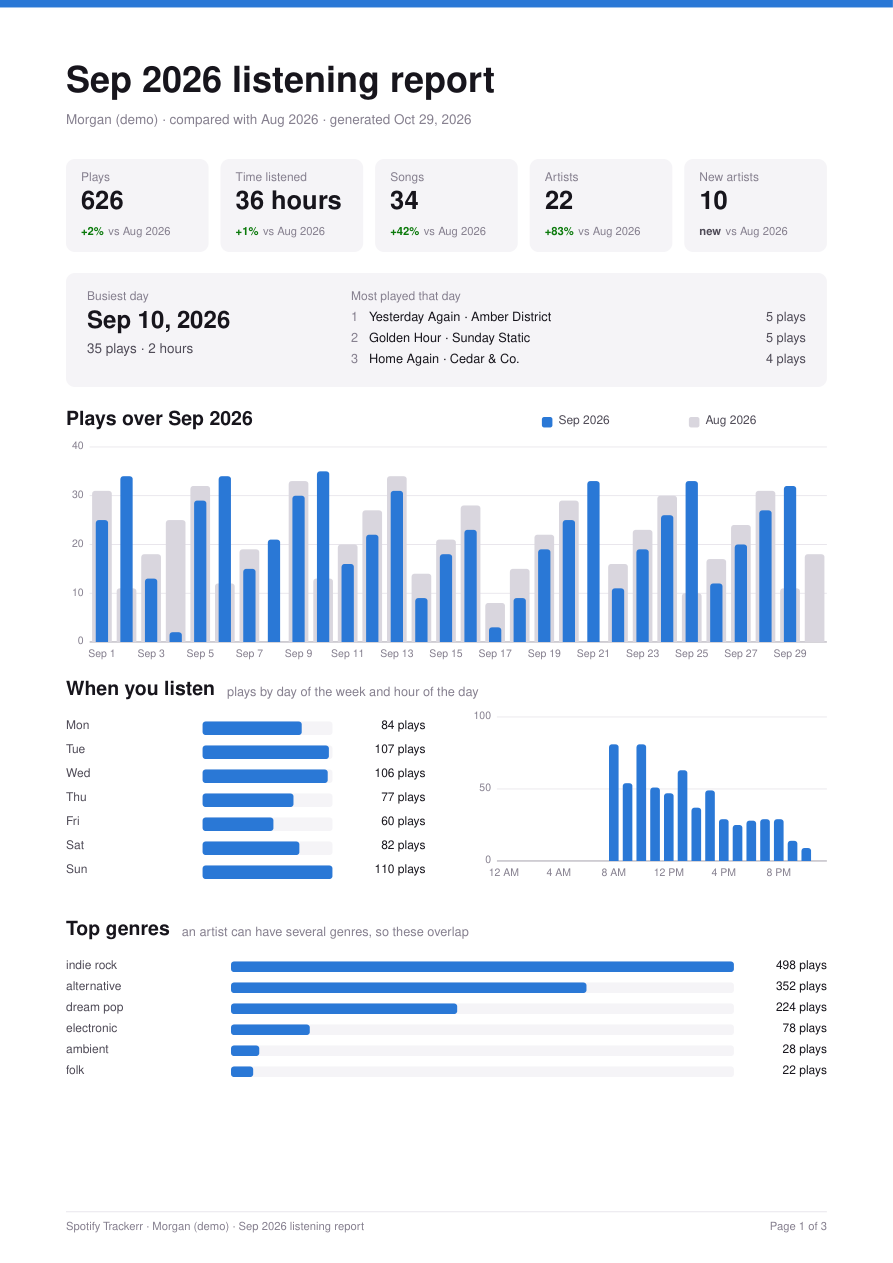
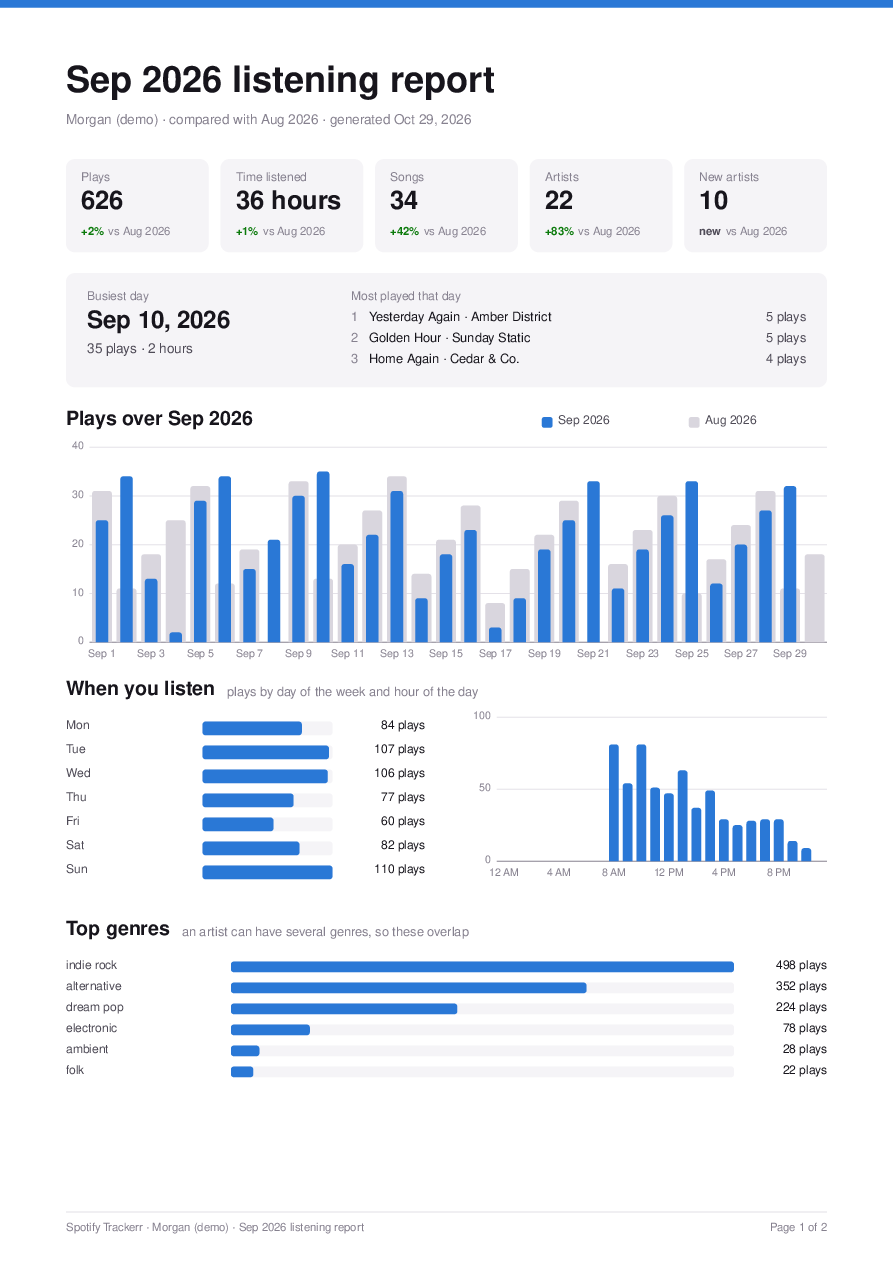
Show the redesigned Reports page and a shared Report in the screenshots
The screenshot script now checks that Reports opens on the year, shares the
2026 report and captures its link signed out. The PDF has two pages now.

diff --git a/docs/screenshots/README.md b/docs/screenshots/README.md
@@ -26,11 +26,12 @@ It clears inherited music-service credentials, blocks outbound requests in the d
 browser, and removes the temporary server and database when finished. Existing app data is not used.
 
 The script also downloads the September 2026 report from the Reports page and saves it here as
-`listening-report-2026-09.pdf`. The `report-pdf-*.png` images are its pages, rasterized at 1.5x
+`listening-report-2026-09.pdf`, then shares the 2026 report and captures its link signed out as
+`shared-report.png`. The `report-pdf-*.png` images are the PDF's pages, rasterized at 1.5x
 with a PDF renderer such as [MuPDF](https://mupdf.com/). The script doesn't make them, so render
 them again when the PDF changes.
 
 The script checks page headings and the unchanged app title, genre lists, yearly highlights,
-image loading, chart sizing, the report download, desktop horizontal overflow, and browser errors before reporting success.
+image loading, chart sizing, the report download, the Reports year default, the shared Report opened signed out, desktop horizontal overflow, and browser errors before reporting success.
 The dashboard currently has horizontal overflow on narrow phone screens. The phone image preserves
 the current layout, and the script reports that overflow without changing or hiding page content.
